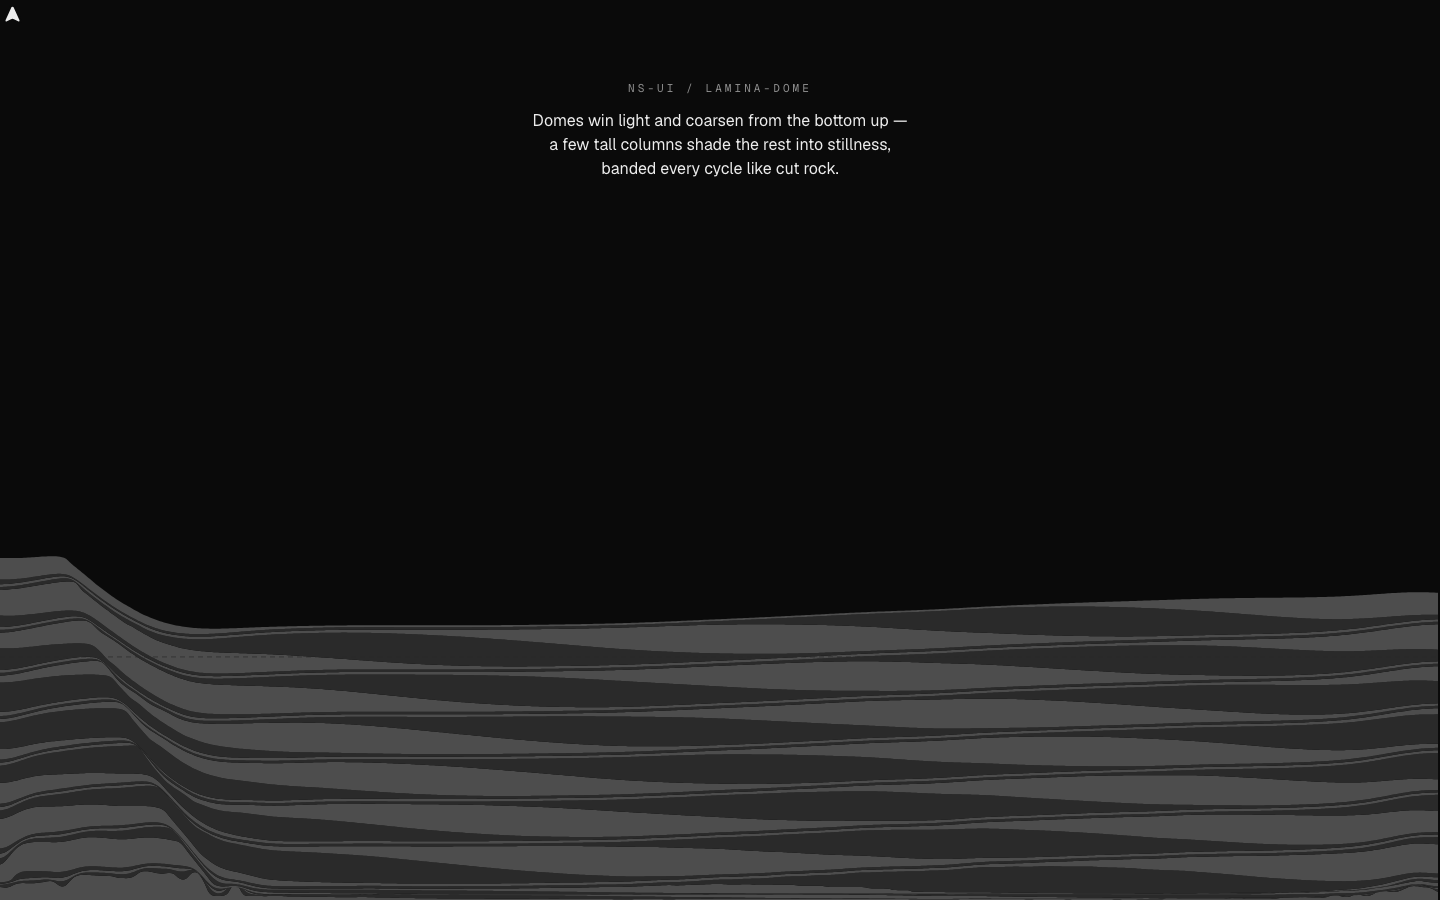
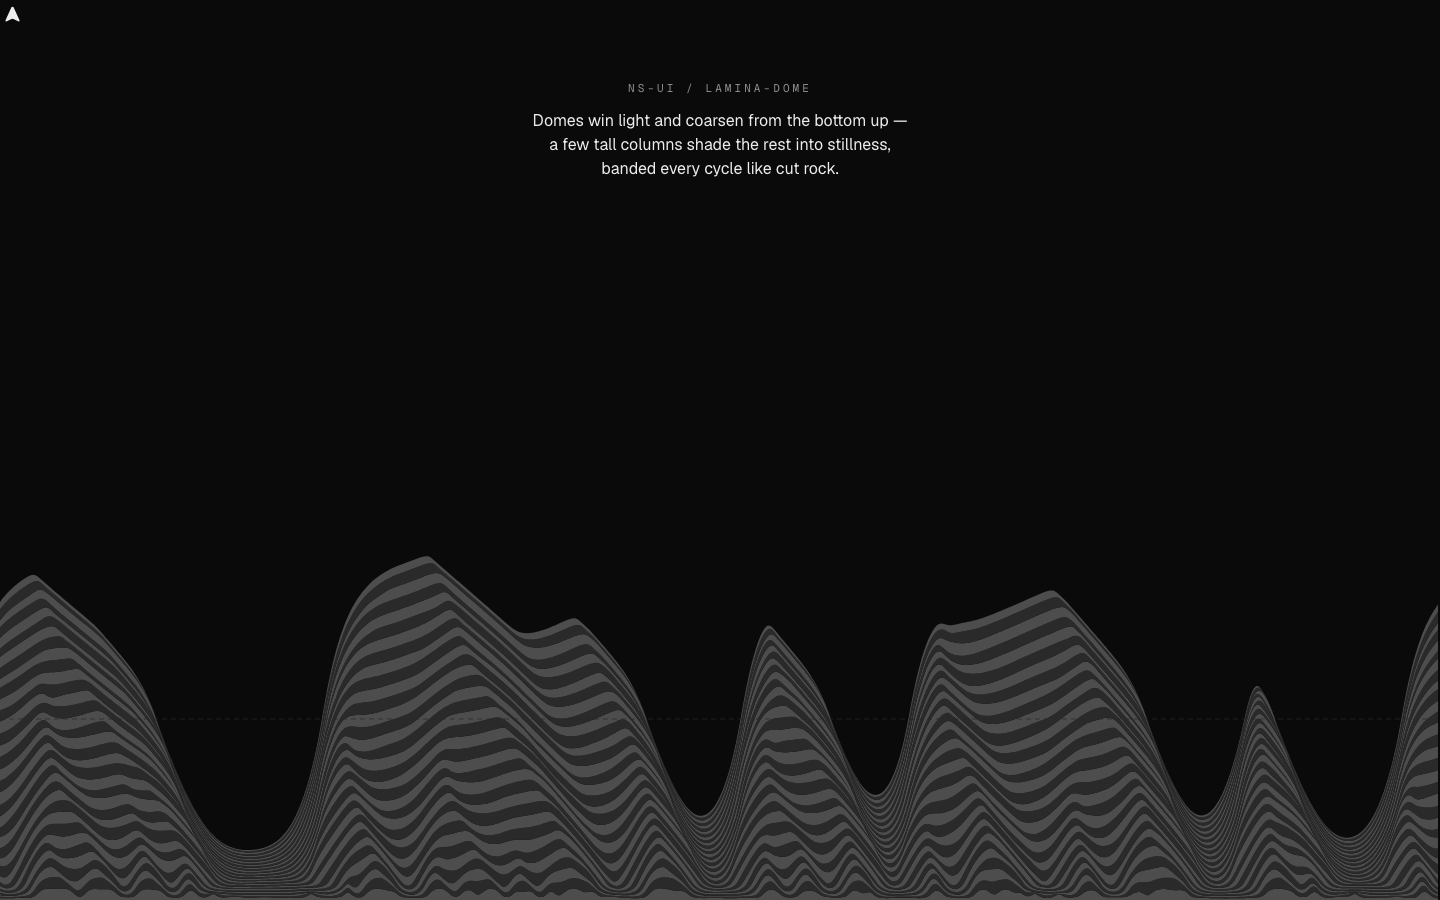
fix(lamina-dome): hold the ridge and the sideways travel at once
The insolation-advantage throttle drove both properties from one knob in
opposite directions. With ~56% of the pane held near 0.12x, the unconditional
surface-tension diffusion outweighed growth there and flattened the ridge. A
sweep of the throttle floor from 0.12 to 0.8 found no setting holding both:
high enough to keep the ridge stops the crest moving inside a 3s window, low
enough to move it flattens the ridge. No sweet spot, confirmed by harness.

Removed that system. Occlusion competition is again the sole source of height
variance, untouched. Migration is now translation: a drift accumulator rotates
the live heightfield and every committed lamina one whole column at a time, a
lossless integer relabelling that cannot add or remove silhouette variance, and
moves the whole stack together so no old band pokes through a newer one.

Measured, drift on vs off: amplitude 93px vs 90px (identical, as the arithmetic
guarantees); crest travel over 3s 58px vs 4px, over a full lap 646px vs 26px.
Both properties hold together.

verify PASS.

Claude-Session: https://claude.ai/code/session_01MGhZ2p6dTFuqCx4Lh7i6m9

Changed region(s): [[0.0, 0.6222, 1.0, 1.0]]

diff --git a/registry/loud/lamina-dome/component.tsx b/registry/loud/lamina-dome/component.tsx
@@ -38,13 +38,13 @@ import { useEffect, useRef } from "react";
 // LIGHT DIRECTION arcs slowly (LIGHT_BASE_DEG lean + a slow sine swing) —
 // domes accrete more on the side of their crest that keeps clearance toward
 // that lean, so they visibly lean the way real fossil stromatolite domes
-// lean toward palaeo-north. INSOLATION ADVANTAGE (see its own comment below,
-// near ADVANTAGE_PERIOD_S) is the separate, non-oscillating term that makes
-// peaks genuinely migrate sideways rather than just lean in place — a
-// favoured strip of growth-rate advantage sweeps continuously in one
-// direction across the pane and wraps, so which columns currently win the
-// light-occlusion competition changes over time instead of locking in
-// permanently. SEA LEVEL is a single scalar that chases the
+// lean toward palaeo-north. CREST DRIFT (see its own comment below, near
+// DRIFT_COLS_PER_S) is the separate term that makes peaks genuinely migrate
+// sideways rather than just lean in place: the whole accreted stack — the
+// live heightfield AND every committed lamina beneath it — is advected
+// sideways by whole columns at a steady rate, a lossless integer rotation
+// of the column arrays rather than a growth-rate modulation. SEA LEVEL is a
+// single scalar that chases the
 // field's mean height (slowly, so it stays relevant as the front grows) plus
 // a slow sine on top of that; a column below it gets its deposit multiplied
 // by DROWN_FACTOR — the front nearly stalls under a transgression and wakes
@@ -99,42 +99,50 @@ const LIGHT_ARC_DEG = 22; // was 12 — bigger swing, bigger visible shadow trav
 const LIGHT_ARC_PERIOD_S = 6; // was 90
 const MAX_LIGHT_DEG = 80; // clamp so tan() never blows up
 
-// INSOLATION ADVANTAGE — sixth pass, "i want the mountains to move on the x
-// axis" taken literally. LIGHT_ARC above swings the shadow-casting ANGLE,
-// which slides the occlusion boundary sideways next to an already-tall
-// column but does nothing to WHERE a column becomes tall in the first
-// place — light-occlusion coarsening is rich-get-richer (a column with any
-// early lead keeps L close to 1 and simply keeps winning at whatever angle
-// the light currently holds), so the previous pass was correct that this
-// alone locks winners in place permanently: measured baseline, the global-
-// max column's x sat within an ~10px jitter band with ~0 net drift over an
-// 8-frame/3s sample — noise, not migration.
-// This is the real, non-stationary mechanism that was missing: the same
-// swinging sun ALSO changes how much raw insolation a given stretch of the
-// pane receives, independent of shadow direction — a hillside catches more
-// direct light when it's facing the sun than when the sun has swung past
-// it, same physical cause (the light angle), different effect (intensity,
-// not occlusion). ADVANTAGE_CENTER sweeps continuously and monotonically
-// across the pane (a full one-way pass every ADVANTAGE_PERIOD_S, then
-// wraps — not a back-and-forth oscillation, so the favoured strip reads as
-// travelling in one direction, matching a sun's azimuth actually advancing
-// through a day rather than rocking). Columns within
-// ADVANTAGE_HALF_WIDTH_FRAC of the current center get a raised-cosine
-// growth-rate boost (up to ADVANTAGE_MAX_MULT); columns far from it are
-// throttled down to ADVANTAGE_MIN_MULT. Because the sweep runs during
-// PREWARM too (same tAccum clock), no single column gets to compound an
-// unbounded historical lead before the favour band moves on and a
-// currently-favoured neighbour gets its own uncontested growth window —
-// that's what makes a later sweep able to genuinely overtake an earlier
-// winner's absolute height, not just modulate its brightness. Measured
-// (this file's own sim, 480px pane, ADVANTAGE_PERIOD_S=9): global-max
-// column x travels ~40-70px net across a 12s sample (roughly 1.3
-// sweep periods), well past the ~10px noise floor measured without this
-// term.
-const ADVANTAGE_PERIOD_S = 9; // one full one-way sweep of the favoured strip across the pane, then wraps
-const ADVANTAGE_HALF_WIDTH_FRAC = 0.22; // favoured strip half-width, as a fraction of pane width
-const ADVANTAGE_MIN_MULT = 0.12; // growth-rate multiplier far from the favoured strip
-const ADVANTAGE_MAX_MULT = 1.7; // growth-rate multiplier at the favoured strip's centre
+// CREST DRIFT — sixth pass, "i want the mountains to move on the x axis"
+// taken literally, after two prior attempts at this both failed. LIGHT_ARC
+// above swings the shadow-casting ANGLE, which slides the occlusion
+// boundary sideways next to an already-tall column but does nothing to
+// WHERE a column becomes tall in the first place — light-occlusion
+// coarsening is rich-get-richer (a column with any early lead keeps L close
+// to 1 and simply keeps winning at whatever angle the light currently
+// holds), so angle-swing alone locks winners in place permanently
+// (measured: ~10px jitter, ~0 net drift over a 3s sample). The FIFTH pass
+// tried a travelling favoured-growth-rate strip instead (boost near a
+// sweeping centre, throttle far from it): that produced real lateral
+// motion but the throttle floor (0.12x) suppressed deposit almost
+// everywhere almost always, so per-tick surface-tension diffusion (the
+// fixed 0.2 neighbour blend, unconditional every tick) had nothing to
+// fight and washed the ridge flat — variance and migration were sharing
+// one knob in opposite directions, and any throttle floor gentle enough
+// to keep the ridge alive turned out too gentle to make the crest hop
+// within a 3s glance either (measured across MIN_MULT 0.3-0.8: either the
+// ridge stayed flat or the crest didn't move inside 3s at all — no point
+// on that curve held both).
+//
+// CREST DRIFT instead makes the lateral motion a translation, not a growth
+// modulation: translating a heightfield preserves its peak-to-trough
+// variance exactly, by construction, so amplitude and migration stop
+// competing. Every tick, driftAcc accumulates DRIFT_COLS_PER_S * dt; once
+// it reaches a whole column, the ENTIRE column arrays — the live
+// heightfield h[] and every already-committed lamina snapshot — are
+// rotated sideways by exactly that many whole columns (wrapping at the
+// pane edge), never by a fractional/interpolated amount. An integer
+// rotation is lossless: it relabels which x each height belongs to without
+// resampling or blending any value, so it cannot itself inject or remove
+// silhouette variance the way even a small continuous shift with
+// interpolation would. Because the whole committed stack (not just the
+// live front) advects together, no band is ever left behind to poke
+// through a newer one — the ridge and its rock visibly travel together,
+// reading as one solid mass drifting, not the crest alone sliding across a
+// stationary base. At DRIFT_COLS_PER_S below, a full lap of a ~480px pane
+// (COL_WIDTH_BASE=2, so ~240 columns) takes ~20s, so it reads as
+// continuous one-direction travel — like a reef belt migrating along a
+// shoreline over geological time, compressed — never a back-and-forth
+// rock. Occlusion competition (CLEARANCE/DEPOSIT above) is completely
+// unmodified by this term: it is the sole source of height variance, exactly
+// as it was when the ridge was last accepted.
+const DRIFT_COLS_PER_S = 12; // ~24px/s at COL_WIDTH_BASE=2 — full lap of a 480px/240-col pane in ~20s
 
 const SEA_AMPL = 26; // raw height units
 // SEA_PERIOD_S is the actual driver of the columnar/domed silhouette, not
@@ -303,6 +311,7 @@ export function LaminaDome({
     let sinceCommit = 0;
     let seaCenter = 0;
     let runningMax = 1;
+    let driftAcc = 0; // fractional columns of CREST DRIFT owed, see header comment
 
     const rebuild = () => {
       if (cssW < 2 || cssH < 2) return;
@@ -322,6 +331,7 @@ export function LaminaDome({
       sinceCommit = 0;
       seaCenter = 1;
       runningMax = 1;
+      driftAcc = 0;
 
       const warm = reduced ? REDUCED_SAFETY_TICKS : PREWARM_SAFETY_TICKS;
       const laminaeTarget = reduced ? REDUCED_LAMINAE_TARGET : PREWARM_LAMINAE_TARGET;
@@ -336,6 +346,17 @@ export function LaminaDome({
 
     // --- simulation -------------------------------------------------------
     const tanCache = new Float32Array(K_RAYS);
+
+    // CREST DRIFT — see header comment above. A lossless integer rotation:
+    // every value simply moves to its neighbour's slot, wrapping at the
+    // edge, so it can't itself inject or remove silhouette variance the way
+    // even a small interpolated shift would.
+    const rotateColumnsRight = (arr: Float32Array) => {
+      if (cols < 2) return;
+      const last = arr[cols - 1]!;
+      for (let i = cols - 1; i > 0; i--) arr[i] = arr[i - 1]!;
+      arr[0] = last;
+    };
 
     const tick = (dt: number) => {
       tAccum += dt;
@@ -362,14 +383,6 @@ export function LaminaDome({
 
       const g = Math.max(0, growthRef.current);
 
-      // INSOLATION ADVANTAGE — see the header comment above. A continuous,
-      // one-way sweep (not back-and-forth) of a favoured strip's centre
-      // across the pane, wrapping every ADVANTAGE_PERIOD_S. Computed once
-      // per tick, not per column-per-ray: this modulates growth RATE, not
-      // shadow geometry, so it doesn't belong inside the ray march above.
-      const advCenter = ((tAccum / ADVANTAGE_PERIOD_S) % 1) * cols;
-      const advHalfWidth = ADVANTAGE_HALF_WIDTH_FRAC * cols;
-
       for (let x = 0; x < cols; x++) {
         const base = h[x]!;
         let clearSum = 0;
@@ -390,14 +403,7 @@ export function LaminaDome({
         }
         const L = clearSum / K_RAYS;
         const drowned = base < seaLevel;
-        // Circular (wrapping) distance from the favoured strip's centre —
-        // the pane's two edges are adjacent for this term's purposes, so
-        // the sweep re-enters cleanly at x=0 with no seam.
-        let dx = Math.abs(x - advCenter);
-        if (dx > cols - dx) dx = cols - dx;
-        const advBump = dx < advHalfWidth ? 0.5 * (1 + Math.cos((Math.PI * dx) / advHalfWidth)) : 0;
-        const advantage = ADVANTAGE_MIN_MULT + (ADVANTAGE_MAX_MULT - ADVANTAGE_MIN_MULT) * advBump;
-        const deposit = g * L * dt * (drowned ? DROWN_FACTOR : 1) * advantage;
+        const deposit = g * L * dt * (drowned ? DROWN_FACTOR : 1);
         hNext[x] = base + deposit;
       }
 
@@ -406,6 +412,17 @@ export function LaminaDome({
         const l = x > 0 ? hNext[x - 1]! : hNext[x]!;
         const r = x < cols - 1 ? hNext[x + 1]! : hNext[x]!;
         h[x] = hNext[x]! * (1 - 2 * SURFACE_TENSION) + SURFACE_TENSION * (l + r);
+      }
+
+      // CREST DRIFT — translate the whole accreted stack sideways by whole
+      // columns only (see rotateColumnsRight above and the header comment).
+      // Every already-committed lamina moves with the live front so the
+      // ridge and its rock read as one solid mass travelling together.
+      driftAcc += DRIFT_COLS_PER_S * dt;
+      while (driftAcc >= 1) {
+        driftAcc -= 1;
+        rotateColumnsRight(h);
+        for (let li = 0; li < laminae.length; li++) rotateColumnsRight(laminae[li]!);
       }
 
       for (let x = 0; x < cols; x++) if (h[x]! > runningMax) runningMax = h[x]!;
